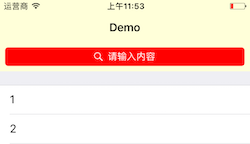
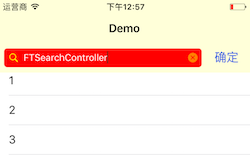
Update README

diff --git a/FTSearchController/ViewController.swift b/FTSearchController/ViewController.swift
@@ -35,17 +35,17 @@ class ViewController: FTSearchController {
         let backgroundColor = UIColor(hex: 0xffffd9)
         let tintColor = UIColor(hex: 0x603125)
         let blue = UIColor(hex: 0x2D5AE4)
-        textFieldTextColor = .yellow
+        textFieldTextColor = UIColor.white
         textFieldBackgroundColor = .red
         
         attributedPlaceholder = NSAttributedString(string: "请输入内容", attributes: [NSAttributedStringKey.foregroundColor : UIColor.white])
 //        navigationController?.navigationBar.barTintColor = .blue
 //        barBackgroundColor = .blue
         universalBackgoundColor = backgroundColor
-        
+        showDebugInfo = false
         cursorAndCancelButtonColor = tintColor
-        leftIconColor = .white
-        rightIconColor = .white
+        leftIconColor = .yellow
+        rightIconColor = .orange
         cancelButtonTitle = "好的"
         hideBorderLines = true
         cencelButtonAttributedTitle = NSAttributedString(string: "确定", attributes: [NSAttributedStringKey.foregroundColor : blue, NSAttributedStringKey.font: UIFont.systemFont(ofSize: 18)])

diff --git a/README.md b/README.md
@@ -7,7 +7,7 @@ An easy-to-use UISearchController. iOS11 style compatible with iOS10.
 ## Demo
 Dwonload and check out the demo project.  
 **iOS 11**  
-![iOS 11](https://github.com/JunsW/FTSearchController/blob/master/Pics/DemoiOS11.png)  
+![iOS 11](https://github.com/JunsW/FTSearchController/blob/master/Pics/DemoiOS11_1.png)  
 ![iOS 11](https://github.com/JunsW/FTSearchController/blob/master/Pics/DemoiOS11_2.png)  
 **iOS 11 lower**  
 ![Compatible](https://github.com/JunsW/FTSearchController/blob/master/Pics/DemoiOS10.png)
